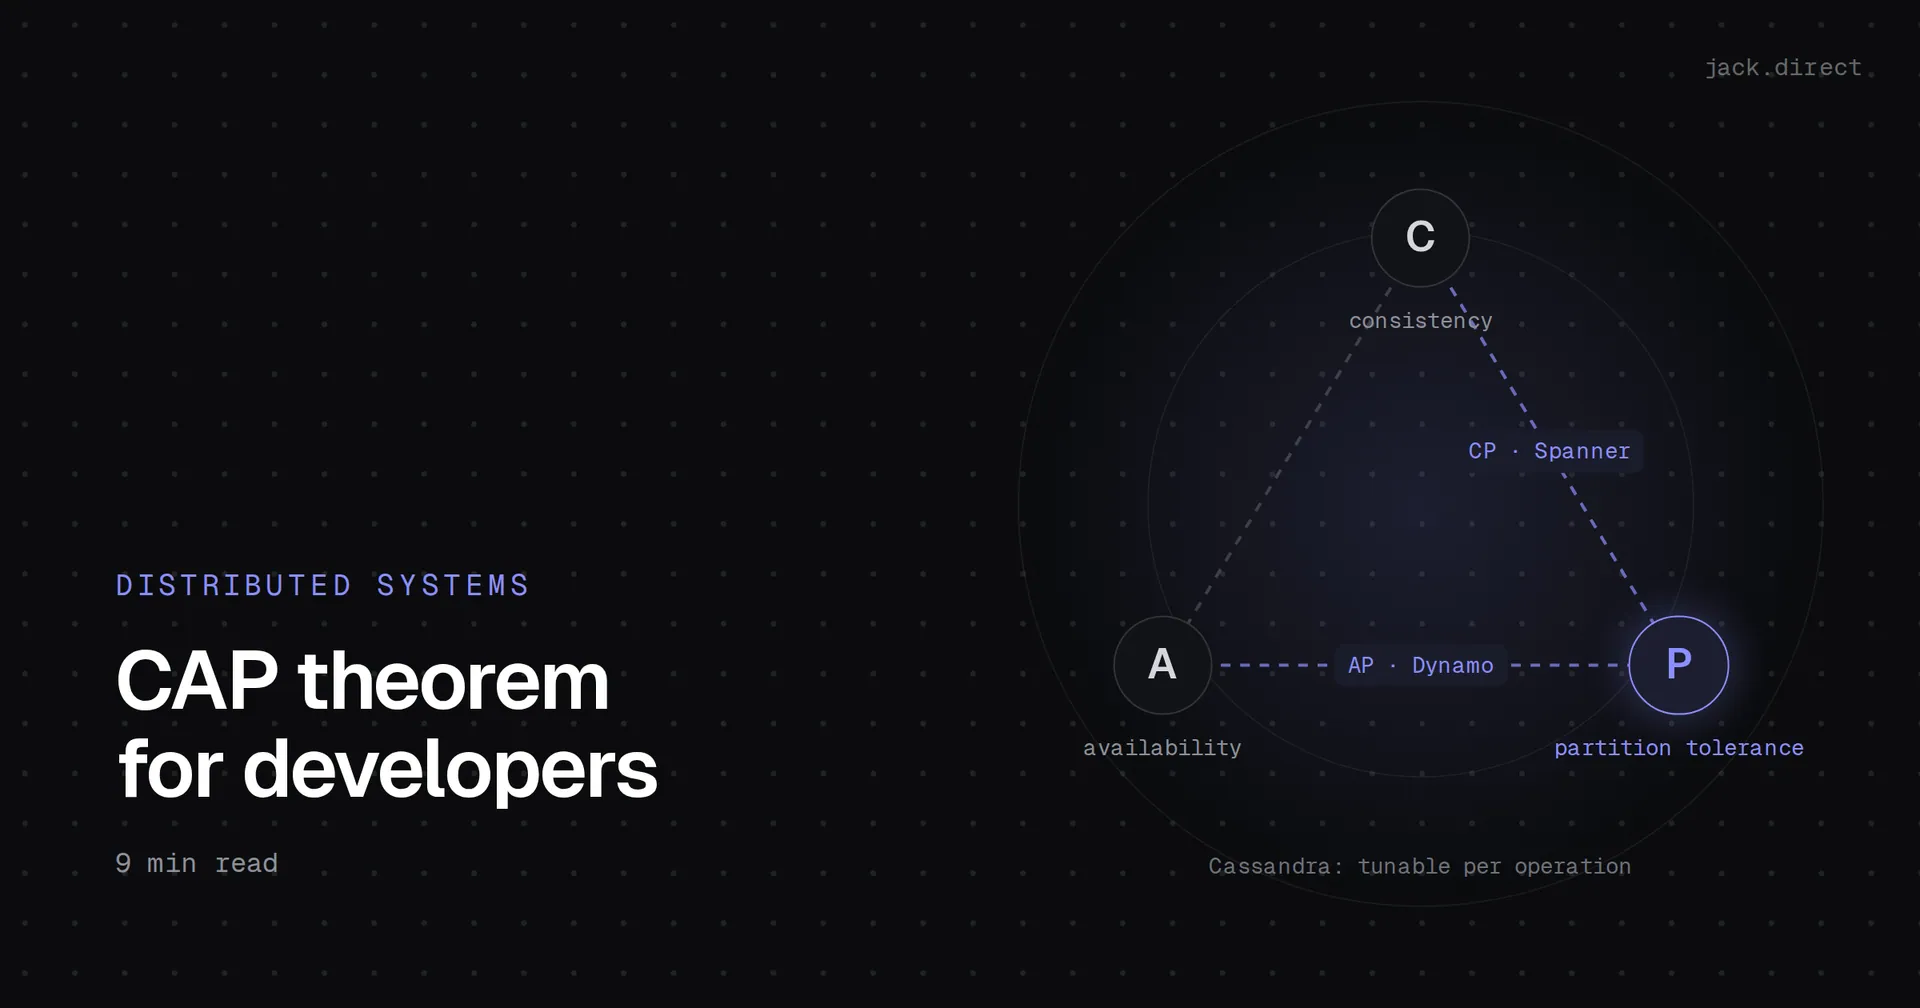
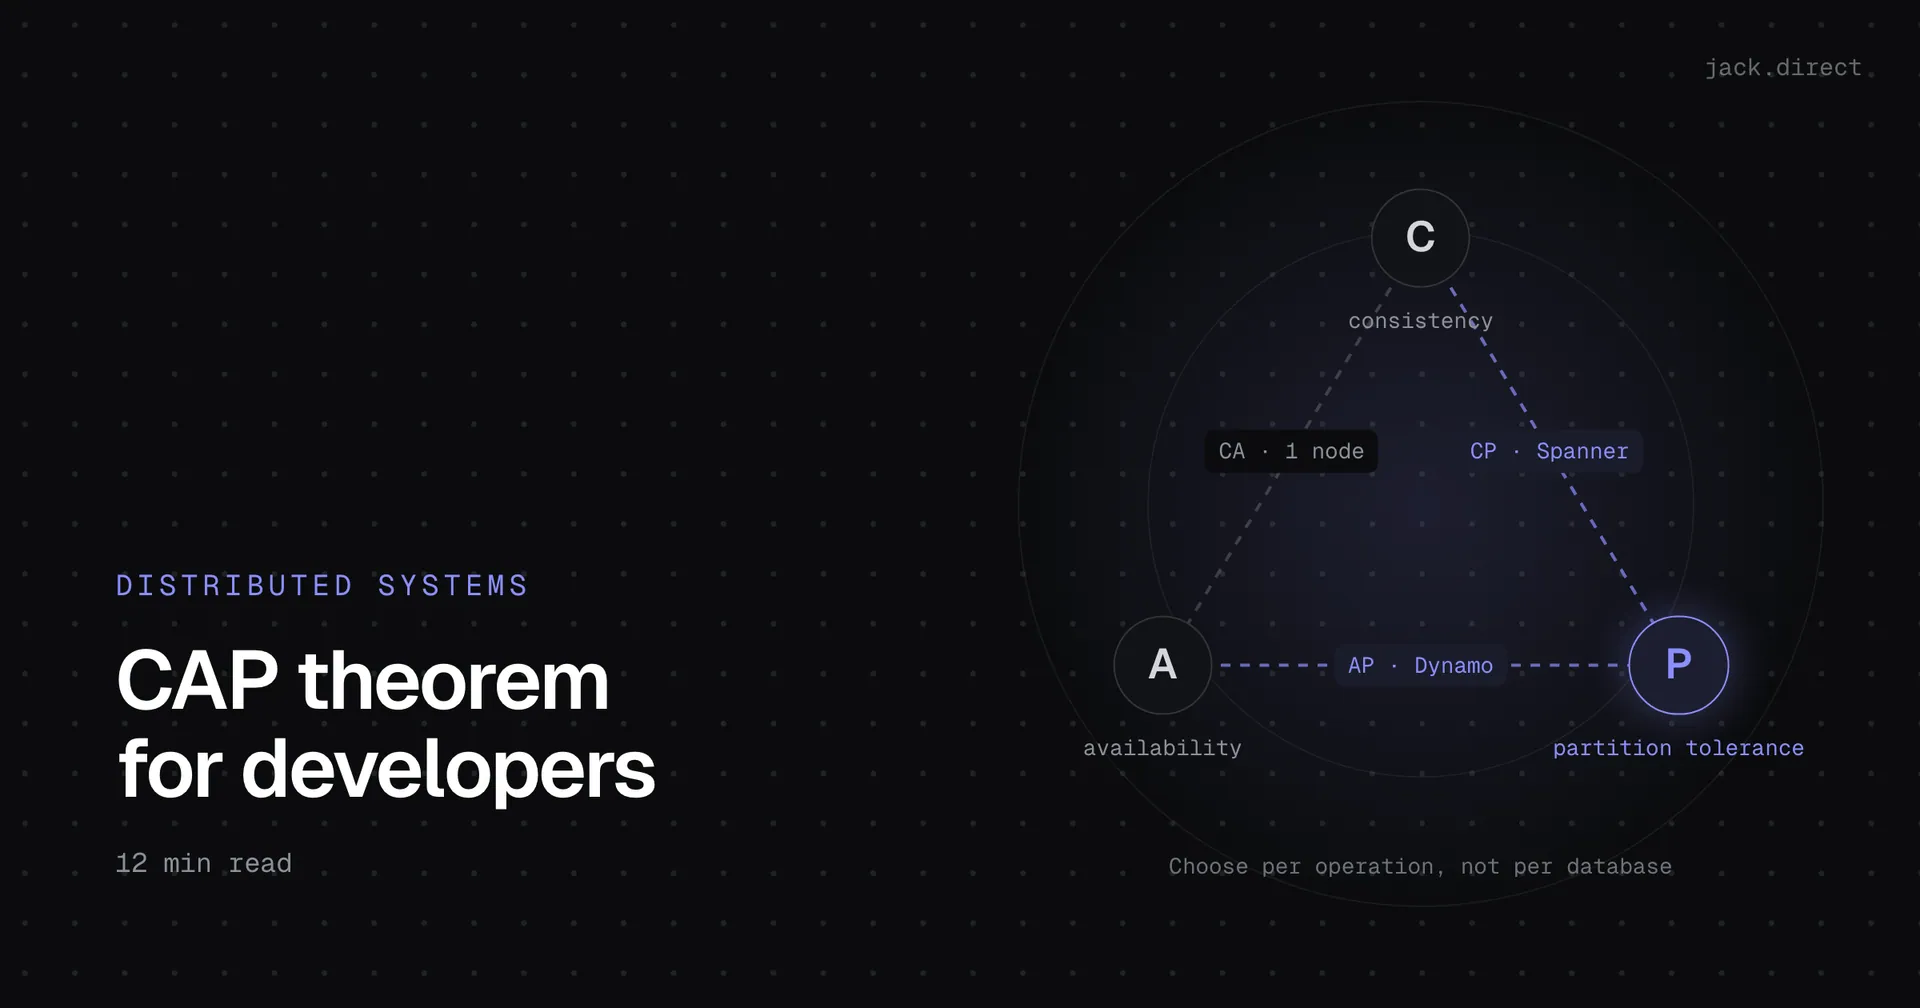
content: rewrite CAP theorem post with primary sources and PACELC
Fixes CA presented as a real choice, Spanner described as consistent and
available during partitions, and the Dynamo paper conflated with DynamoDB.
Adds the GitHub 2018 partition, a tested bank-branch example, Kleppmann's
critique, and a PACELC table. Cover caption and CA edge updated to match.

diff --git a/src/lib/covers.ts b/src/lib/covers.ts
@@ -154,9 +154,9 @@ export const COVERS: Record<string, CoverSpec> = {
       edges: [
         { from: 0, to: 2, label: 'CP · Spanner', hot: true },
         { from: 1, to: 2, label: 'AP · Dynamo', hot: true },
-        { from: 0, to: 1 },
+        { from: 0, to: 1, label: 'CA · 1 node' },
       ],
-      caption: 'Cassandra: tunable per operation',
+      caption: 'Choose per operation, not per database',
     },
   },
 
